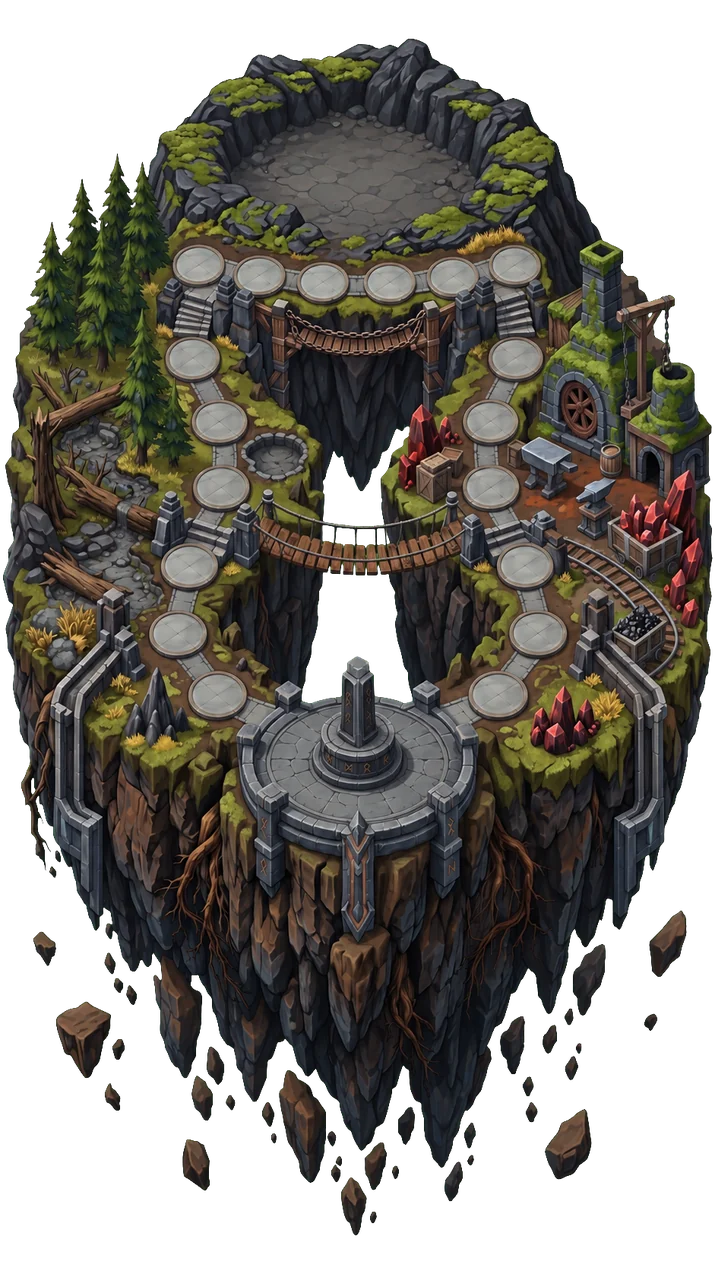
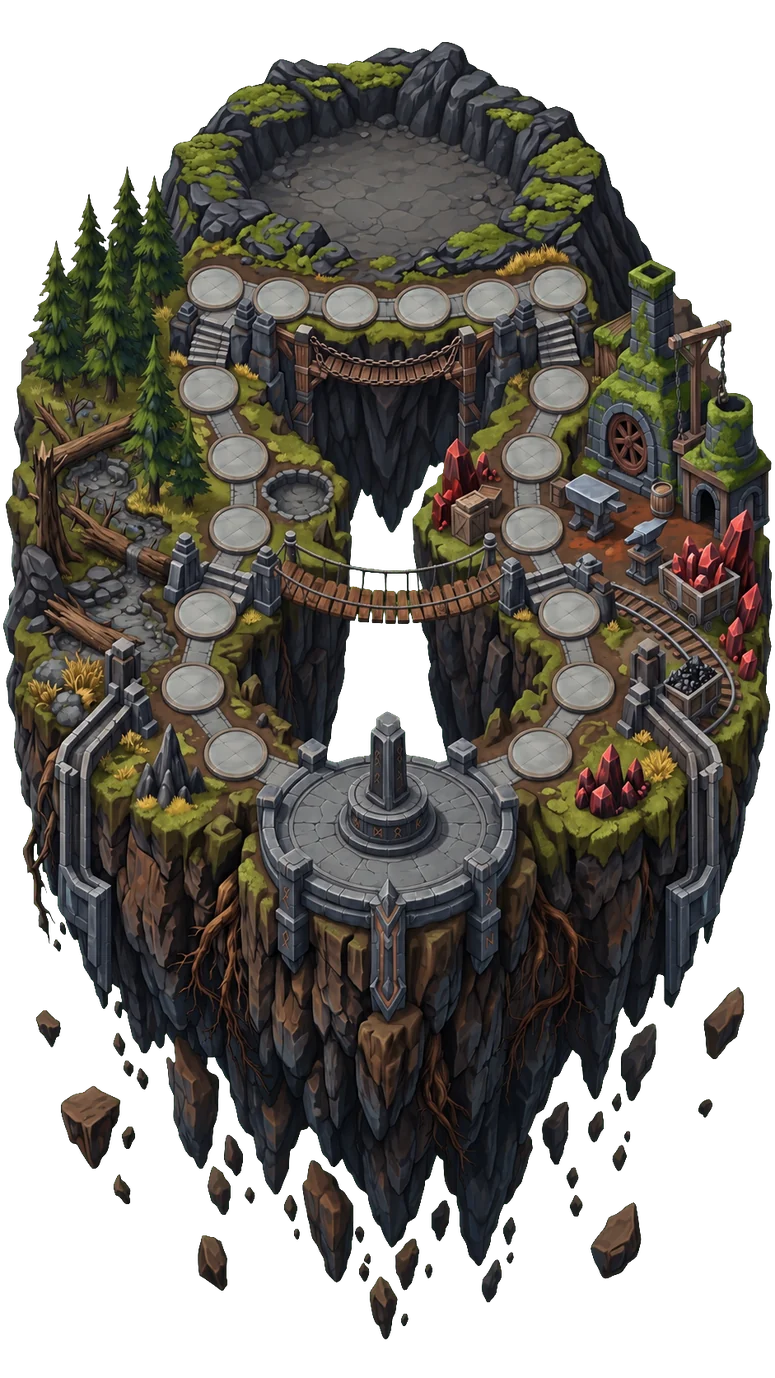
溫泉島放大到同火山島一樣大；我嘅島頁面以闊度為準，高嘅島底部碎石可以出界
Claude-Session: https://claude.ai/code/session_01E2utfFQBUZUAHLnSXfgdjb

Changed region(s): [[0.9846, 0.3375, 1.0, 0.3682], [0.5231, 0.3989, 0.5538, 0.4296]]

diff --git a/lib/islands.ts b/lib/islands.ts
@@ -114,36 +114,36 @@ export const ISLANDS: IslandArt[] = [
     spots: [],
     decor: [],
   },
-  // 溫泉島 (Sky 2026-10-18): 森林 (left), 溫泉火山口 (back), 鐵匠鋪 (right). Picture shrunk to 76%; the hot-spring
+  // 溫泉島 (Sky 2026-10-18): 森林 (left), 溫泉火山口 (back), 鐵匠鋪 (right). Picture at 82% so its board matches the volcano's; the hot-spring
   // water, steam, chimney smoke, forge fire and rune glow are all code.
   {
     id: "spring",
     name: "溫泉島",
     art: "/art/islands/spring.webp",
-    w: 715,
-    h: 1271,
-    top: 172,
-    left: 118,
+    w: 775,
+    h: 1378,
+    top: 128,
+    left: 88,
     tiles: "painted",
     squares: [
-      { x: 357, y: 798 },
-      { x: 216, y: 694 }, { x: 176, y: 633 }, { x: 188, y: 565 }, { x: 219, y: 486 }, { x: 218, y: 421 }, { x: 192, y: 357 },
-      { x: 198, y: 264 }, { x: 258, y: 275 }, { x: 322, y: 281 }, { x: 388, y: 282 }, { x: 451, y: 276 }, { x: 513, y: 265 },
-      { x: 515, y: 358 }, { x: 489, y: 421 }, { x: 489, y: 487 }, { x: 524, y: 565 }, { x: 536, y: 633 }, { x: 496, y: 694 },
+      { x: 387, y: 865 },
+      { x: 234, y: 752 }, { x: 191, y: 686 }, { x: 204, y: 613 }, { x: 237, y: 527 }, { x: 236, y: 456 }, { x: 208, y: 387 },
+      { x: 215, y: 286 }, { x: 280, y: 298 }, { x: 349, y: 305 }, { x: 421, y: 306 }, { x: 489, y: 299 }, { x: 556, y: 287 },
+      { x: 558, y: 388 }, { x: 530, y: 456 }, { x: 530, y: 528 }, { x: 568, y: 613 }, { x: 581, y: 686 }, { x: 538, y: 752 },
     ],
-    nest: { x: 357, y: 787, w: 170 },
+    nest: { x: 387, y: 853, w: 184 },
     falls: [
-      { x: 68, y: 669, w: 20, h: 220 },
-      { x: 634, y: 669, w: 20, h: 220 },
+      { x: 74, y: 725, w: 22, h: 239 },
+      { x: 687, y: 725, w: 22, h: 239 },
     ],
     pools: [
-      { x: 363, y: 179, rx: 112, ry: 46 },
-      { x: 270, y: 450, rx: 26, ry: 15 },
+      { x: 394, y: 194, rx: 121, ry: 50 },
+      { x: 293, y: 488, rx: 28, ry: 16 },
     ],
-    smoke: [{ x: 600, y: 247 }],
+    smoke: [{ x: 651, y: 268 }],
     glows: [
-      { x: 652, y: 465, r: 23, colour: "#FF8A1F" },
-      { x: 355, y: 703, r: 17, colour: "#FF6A2A" },
+      { x: 707, y: 504, r: 25, colour: "#FF8A1F" },
+      { x: 385, y: 762, r: 18, colour: "#FF6A2A" },
     ],
     spots: [],
     decor: [],

diff --git a/components/island-home.tsx b/components/island-home.tsx
@@ -58,7 +58,7 @@ function Decor({ kind, at, w, island }: { kind: DecorKind; at: At; w: number; is
 /** One island, fitted inside its box without cropping, floating gently. */
 function Island({ island, editing }: { island: IslandArt; editing: boolean }) {
   const box = useRef<HTMLDivElement>(null);
-  const [size, setSize] = useState({ w: 0, h: 0 });
+  const [size, setSize] = useState({ w: 0, h: 0, drop: 0 });
   const [pet, setPet] = useState<{ element: number; stage: number } | null>(null);
   useEffect(() => {
     const id = window.setTimeout(() => {
@@ -71,8 +71,10 @@ function Island({ island, editing }: { island: IslandArt; editing: boolean }) {
     if (!el) return;
     const fit = () => {
       const { width, height } = el.getBoundingClientRect();
-      const scale = Math.min(width / island.w, height / island.h);
-      setSize({ w: island.w * scale, h: island.h * scale });
+      // Fill the width; the falling rocks at the bottom of a tall picture may run off the page (Sky 2026-10-18:
+      // 溫泉島 should look as big as 火山島).
+      const scale = Math.min(width / island.w, height / (island.h * 0.85));
+      setSize({ w: island.w * scale, h: island.h * scale, drop: Math.max(0, (island.h * scale - height) / 2) });
     };
     fit();
     const ro = new ResizeObserver(fit);
@@ -81,7 +83,7 @@ function Island({ island, editing }: { island: IslandArt; editing: boolean }) {
   }, [island]);
   return (
     <div ref={box} className="flex h-full w-full items-center justify-center">
-      <div className="relative animate-[isle-float_6s_ease-in-out_infinite]" style={{ width: size.w, height: size.h }} data-testid={`island-${island.id}`}>
+      <div className="relative shrink-0 animate-[isle-float_6s_ease-in-out_infinite]" style={{ width: size.w, height: size.h, marginTop: size.drop * 2 }} data-testid={`island-${island.id}`}>
         <img src={island.art} alt="" draggable={false} className="absolute inset-0 h-full w-full select-none" />
         {island.falls.map((f, i) => (
           <div

diff --git a/public/sw.js b/public/sw.js
@@ -1,5 +1,5 @@
 // 大富翁 service worker: keeps the app shell and art so the board opens without a network.
-const CACHE = "dafuweng-v278";
+const CACHE = "dafuweng-v279";
 const SHELL = [
   "/",
   "/manifest.webmanifest",
